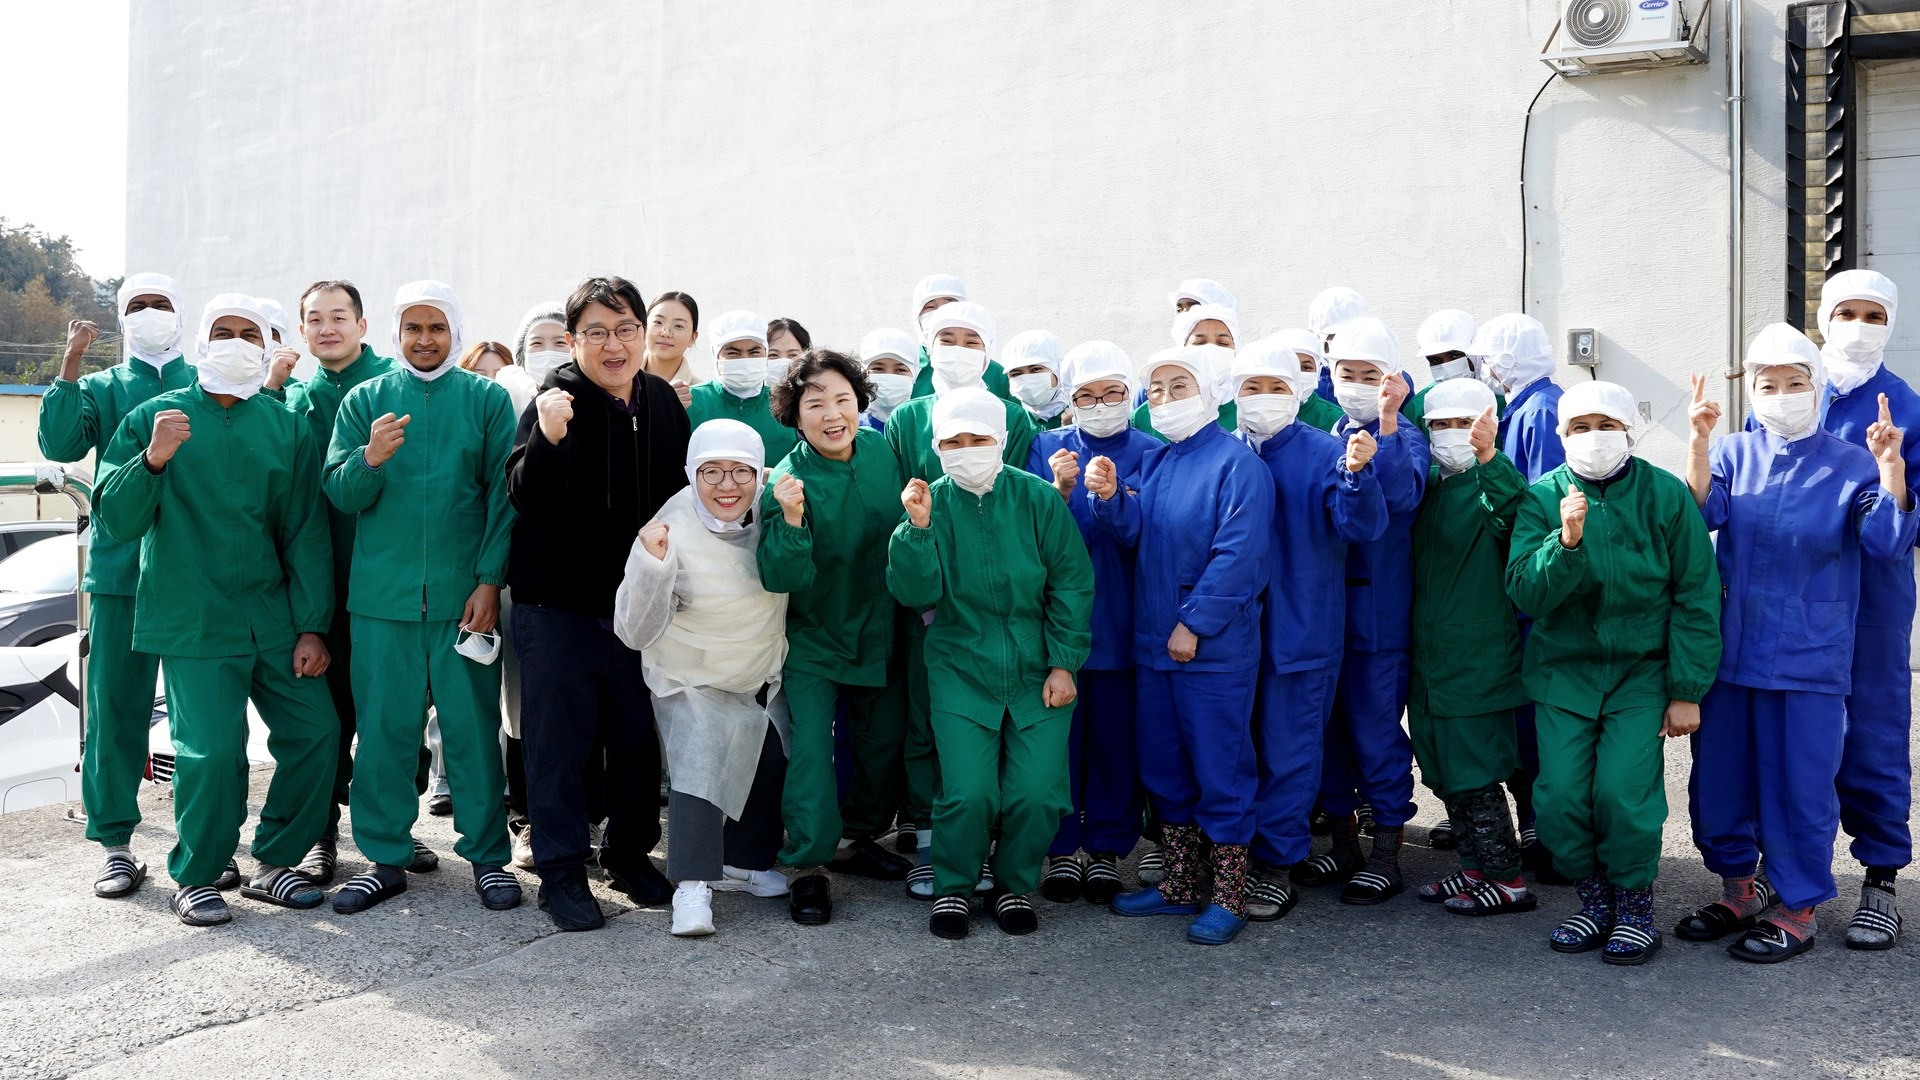
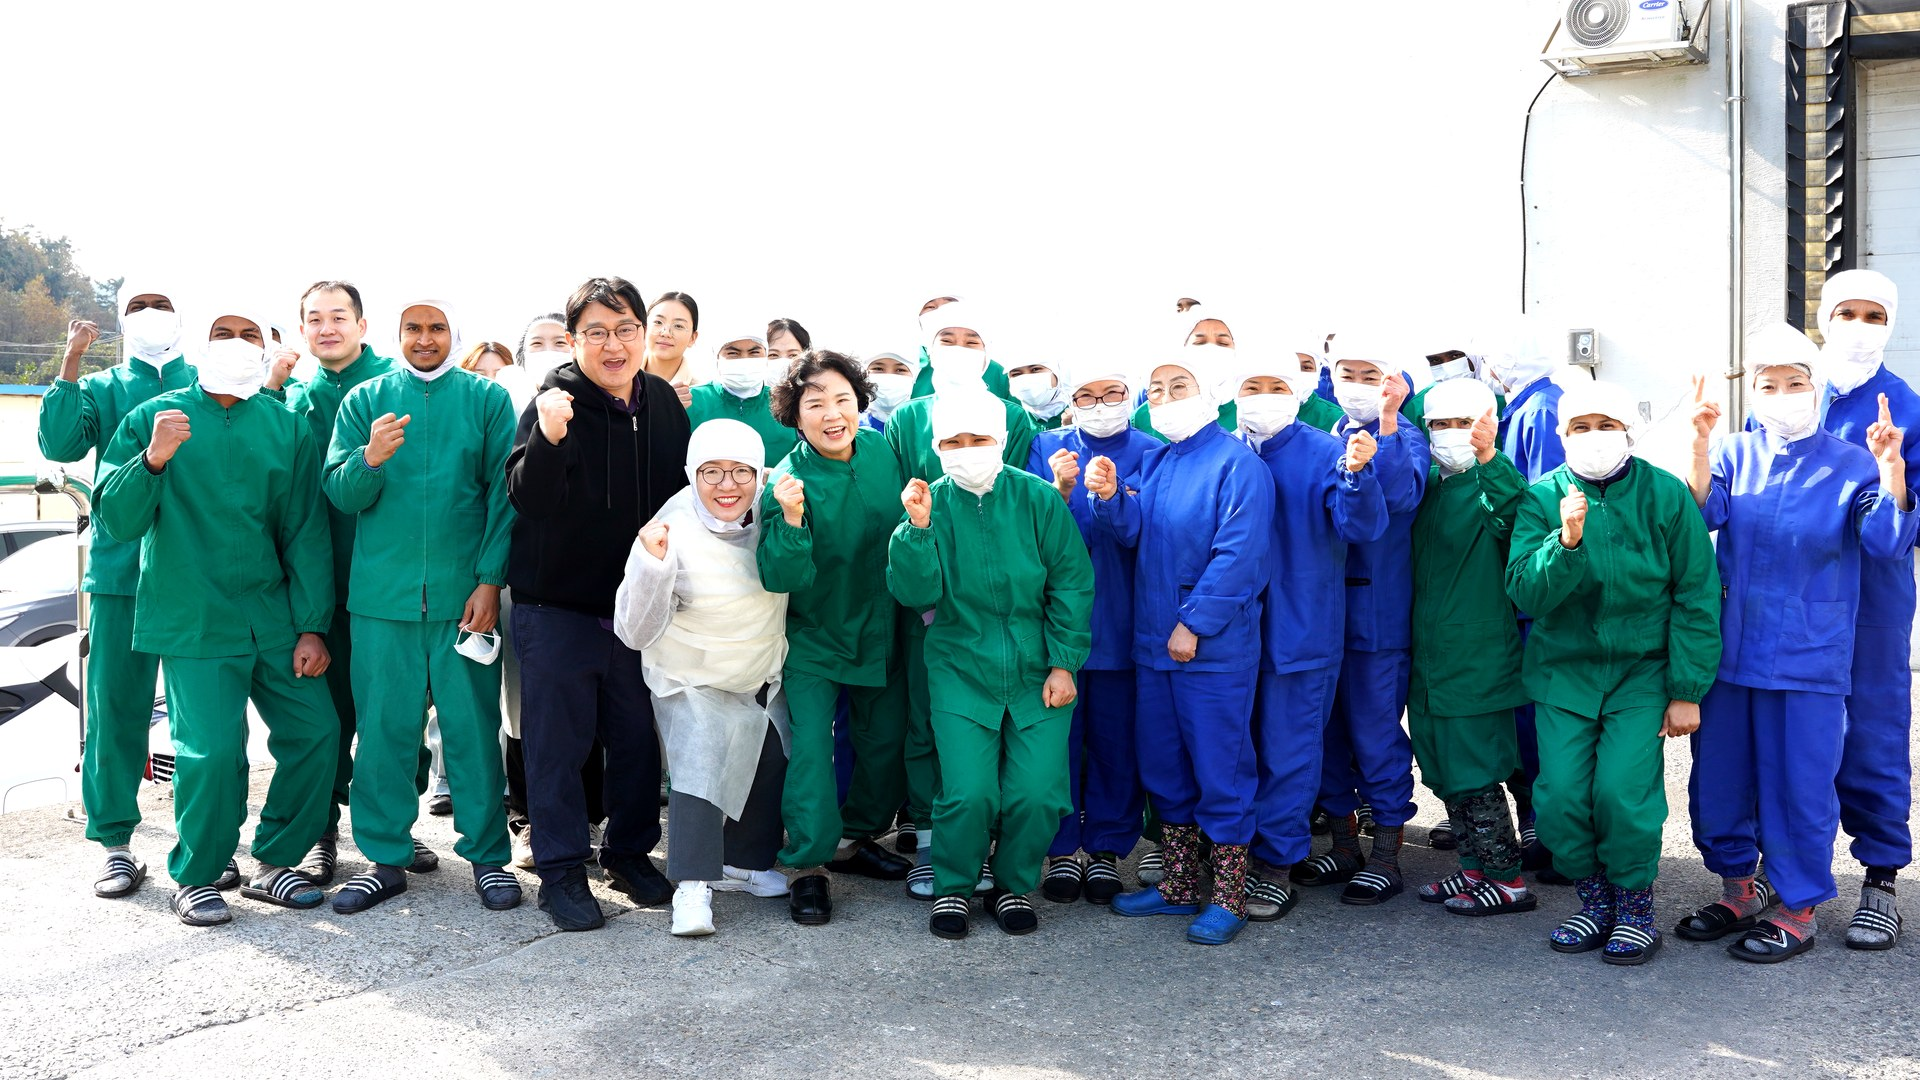
feat: hero 사진 밝게 + '화이팅!' 단어 pop 애니메이션 + sparkle 별
1. main-1-group.jpg 재가공 — cinematic → vibrant 톤:
   - Brightness 0.95 → 1.18 (밝게)
   - Contrast 1.18 → 1.08 (덜 무겁게)
   - Color 0.92 → 1.10 (채도 ↑, 위생복 녹색·청색 살림)
   - 사진 자체가 화사하고 밝아짐

2. hero overlay 약화 (사진 밝기 살리기):
   - bg-black/40 → bg-black/20
   - 하단 그라데이션 black/30 → black/35 (텍스트만 보호)

3. '화이팅!' 단어 재치 애니메이션 (slide 1만):
   - title을 정규식으로 split, '화이팅!'만 분리
   - hero-pop 키프레임: scale 0.55 → 1.18 (튀어오름) → 1.0
     + rotate -6deg → 2deg → 0 (살짝 흔들림)
     cubic-bezier(0.34, 1.56, 0.64, 1) — bouncy
   - 골드 그라데이션 (gold-300 → gold-200 → gold-400) + drop-shadow 골드 글로우
   - 양 옆에 별 SVG (sparkle) — hero-sparkle 키프레임으로
     scale 0 → 1.3 + rotate 360deg (반짝 회전 등장)
     좌 1.4s · 우 1.6s 딜레이로 차례로

타임라인 (slide 1):
  tag 0.05s → 첫줄 '여수의 새벽,' 0.25s
  → 둘째줄 '우리의' 0.45s → '화이팅!' 0.85s (튀어오름)
  → 좌 별 1.4s → 우 별 1.6s → desc 0.6s → buttons 0.8s

다른 slide(slide 2)는 기존 fadeup stagger 유지.

diff --git a/src/components/sections/HeroCorporate.tsx b/src/components/sections/HeroCorporate.tsx
@@ -107,9 +107,9 @@ export default function HeroCorporate() {
           </div>
         ))}
 
-        {/* 오버레이 — CJ 스타일: 전체 어둡게 + 하단 그라디언트 */}
-        <div className="absolute inset-0 z-[11] bg-black/40" />
-        <div className="absolute inset-0 z-[11] bg-gradient-to-t from-black/30 via-transparent to-black/10" />
+        {/* 오버레이 — 가볍게 (사진 밝기 살리기) */}
+        <div className="absolute inset-0 z-[11] bg-black/20" />
+        <div className="absolute inset-0 z-[11] bg-gradient-to-t from-black/35 via-transparent to-transparent" />
 
         {/* 텍스트 콘텐츠 — 중앙 정렬 */}
         <div className="relative z-20 flex h-full items-center justify-center">
@@ -121,19 +121,58 @@ export default function HeroCorporate() {
               {slide.tag}
             </span>
             <h1 className="mx-auto mb-5 max-w-3xl text-3xl font-bold leading-[1.2] tracking-tight text-white drop-shadow-md sm:text-4xl md:text-5xl">
-              {slide.title.split('\n').map((line, i, arr) => (
-                <span
-                  key={i}
-                  className="block hero-fadeup"
-                  style={{ animationDelay: `${0.25 + i * 0.18}s` }}
-                >
-                  {i === arr.length - 1 && arr.length > 1 ? (
-                    <span className="bg-gradient-to-r from-gold-300 via-white to-gold-300 bg-clip-text text-transparent">{line}</span>
-                  ) : (
-                    line
-                  )}
-                </span>
-              ))}
+              {(() => {
+                const lines = slide.title.split('\n');
+                // 화이팅 단어 특수 처리 (slide 1만)
+                if (current === 0 && lines.length === 2) {
+                  const [first, second] = lines;
+                  const match = second.match(/^(.*?)(화이팅!?)\s*$/);
+                  if (match) {
+                    const before = match[1];
+                    const fight = match[2];
+                    return (
+                      <>
+                        <span className="block hero-fadeup" style={{ animationDelay: '0.25s' }}>
+                          {first}
+                        </span>
+                        <span className="block hero-fadeup" style={{ animationDelay: '0.45s' }}>
+                          {before}
+                          <span className="relative inline-block">
+                            <span className="hero-pop bg-gradient-to-r from-gold-300 via-gold-200 to-gold-400 bg-clip-text text-transparent drop-shadow-[0_2px_8px_rgba(245,204,102,0.4)]" style={{ animationDelay: '0.85s' }}>
+                              {fight}
+                            </span>
+                            {/* 양 옆 sparkle */}
+                            <span className="absolute -left-7 -top-2 text-gold-300 hero-sparkle" style={{ animationDelay: '1.4s' }}>
+                              <svg className="h-5 w-5 sm:h-6 sm:w-6" viewBox="0 0 24 24" fill="currentColor">
+                                <path d="M12 0l2.4 8.4L24 12l-9.6 3.6L12 24l-2.4-8.4L0 12l9.6-3.6z" />
+                              </svg>
+                            </span>
+                            <span className="absolute -right-7 top-1 text-gold-300 hero-sparkle" style={{ animationDelay: '1.6s' }}>
+                              <svg className="h-4 w-4 sm:h-5 sm:w-5" viewBox="0 0 24 24" fill="currentColor">
+                                <path d="M12 0l2.4 8.4L24 12l-9.6 3.6L12 24l-2.4-8.4L0 12l9.6-3.6z" />
+                              </svg>
+                            </span>
+                          </span>
+                        </span>
+                      </>
+                    );
+                  }
+                }
+                // 기본 stagger fade-up (다른 슬라이드)
+                return lines.map((line, i, arr) => (
+                  <span
+                    key={i}
+                    className="block hero-fadeup"
+                    style={{ animationDelay: `${0.25 + i * 0.18}s` }}
+                  >
+                    {i === arr.length - 1 && arr.length > 1 ? (
+                      <span className="bg-gradient-to-r from-gold-300 via-white to-gold-300 bg-clip-text text-transparent">{line}</span>
+                    ) : (
+                      line
+                    )}
+                  </span>
+                ));
+              })()}
             </h1>
             <p
               className="mx-auto mb-8 max-w-2xl text-base text-white/95 md:text-lg hero-fadeup"

diff --git a/src/app/globals.css b/src/app/globals.css
@@ -81,6 +81,44 @@ html {
   animation: heroFadeUp 0.9s cubic-bezier(0.16, 1, 0.3, 1) both;
 }
 
+/* "화이팅!" 단어 pop bounce */
+@keyframes heroPop {
+  0%   { opacity: 0; transform: scale(0.55) translateY(20px) rotate(-6deg); }
+  55%  { opacity: 1; transform: scale(1.18) translateY(-4px) rotate(2deg); }
+  78%  { transform: scale(0.95) translateY(0) rotate(-1deg); }
+  100% { opacity: 1; transform: scale(1) translateY(0) rotate(0deg); }
+}
+.hero-pop {
+  display: inline-block;
+  animation: heroPop 1.0s cubic-bezier(0.34, 1.56, 0.64, 1) both;
+  transform-origin: center bottom;
+}
+
+/* "화이팅!" 살짝 흔들림 (등장 후 한 번 더) */
+@keyframes heroShake {
+  0%, 100% { transform: rotate(0deg); }
+  20% { transform: rotate(3deg); }
+  40% { transform: rotate(-3deg); }
+  60% { transform: rotate(2deg); }
+  80% { transform: rotate(-2deg); }
+}
+.hero-shake {
+  display: inline-block;
+  animation: heroShake 0.6s ease-in-out both;
+}
+
+/* sparkle 별 등장 */
+@keyframes heroSparkle {
+  0%   { opacity: 0; transform: scale(0) rotate(0deg); }
+  60%  { opacity: 1; transform: scale(1.3) rotate(180deg); }
+  100% { opacity: 1; transform: scale(1) rotate(360deg); }
+}
+.hero-sparkle {
+  display: inline-block;
+  animation: heroSparkle 1.2s cubic-bezier(0.34, 1.56, 0.64, 1) both;
+  transform-origin: center;
+}
+
 /* Custom scrollbar */
 ::-webkit-scrollbar {
   width: 6px;
